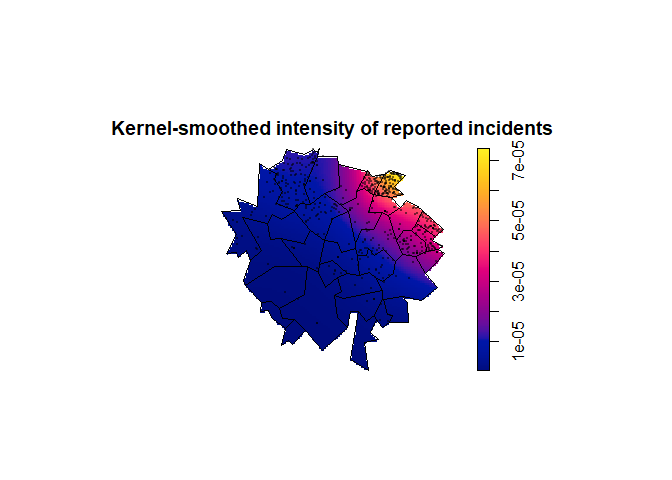
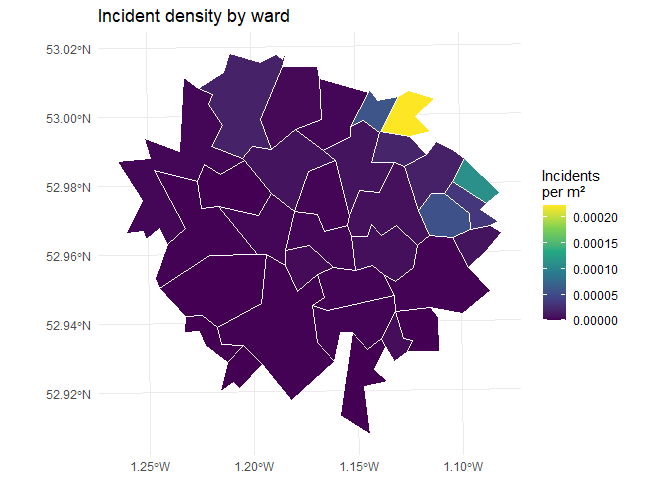
DRAFT 2

diff --git a/coursework_02.md b/coursework_02.md
@@ -77,8 +77,8 @@ incident_counts <-  incidents_joined %>%
 wards_incident <- wards %>% 
   left_join(incident_counts %>% select(ward_id, n_incidents),by = "ward_id") %>%
   mutate(n_incidents = replace_na(n_incidents, 0),
-         area_km2 = as.numeric(st_area(geometry))/1000000,
-         incident_density =  n_incidents / area_km2)
+         area_m2 = as.numeric(st_area(geometry)),
+         incident_density =  n_incidents / area_m2)
 
 #kernel-smoothed intensity for ppp and quadrat
 wards_window <- as.owin(st_union(wards))
@@ -86,13 +86,6 @@ incident_coords = st_coordinates(incidents_sf)
 incident_ppp <-  ppp( x = incident_coords[,1] , y =incident_coords[,2] , window = wards_window)
 
 incident_intensity <-  density.ppp( x = incident_ppp , edge= TRUE)
-incident_quadrat6 <- quadratcount( incident_ppp, nx=6 , ny=6 )
-
-par(mfrow = c(1,2))
-plot(incident_ppp, main = "", pch=16, cex=0.25)
-title("Quadrat counts", line = 1.5)
-plot(incident_quadrat6, add = TRUE)
-plot(st_geometry(wards),add = TRUE,lwd = 0.5)
 
 plot(incident_intensity,main = "")
 title("Kernel intensity", line = 1.5)
@@ -103,31 +96,23 @@ plot(incident_ppp, add = TRUE, pch = 16,cex = 0.25)
 ![](coursework_02_files/figure-commonmark/task-1-code-1.png)
 
 ``` r
+#choropleth map 
+ggplot(wards_incident) +
+  geom_sf(aes(fill = incident_density), colour = "white", linewidth = 0.2) +
+  scale_fill_viridis_c() +
+  labs(title = "Incident density by ward",fill = "Incidents\nper m²") +
+  theme_minimal()
+```
+
+![](coursework_02_files/figure-commonmark/task-1-code-2.png)
+
+``` r
 top_wards <- wards_incident %>% 
   st_drop_geometry() %>% 
   arrange(desc(n_incidents)) %>% 
   select(ward_id,ward_name, n_incidents, incident_density) %>% 
   slice_head(n=5)
 
-top_wards %>%
-  mutate(incident_density = round(incident_density, 1)) %>%
-  kable(
-    col.names = c("Ward ID", "Ward", "Incidents", "Incident density"),
-    caption = "Highest incident wards by coordinate-based ward assignment."
-  )
-```
-
-| Ward ID | Ward        | Incidents | Incident density |
-|:--------|:------------|----------:|-----------------:|
-| W17     | Maple Cross |       337 |            222.9 |
-| W25     | Saffron Lea |       110 |            111.9 |
-| W08     | Market End  |        96 |             17.8 |
-| W11     | Hazel Row   |        95 |             55.6 |
-| W16     | Foxley      |        57 |             59.0 |
-
-Highest incident wards by coordinate-based ward assignment.
-
-``` r
 total_incidents = sum(wards_incident$n_incidents)
 
 top_10_share <- wards_incident %>%
@@ -135,27 +120,13 @@ top_10_share <- wards_incident %>%
   arrange(desc(n_incidents)) %>% 
   slice_head(n =10) %>% 
   summarise( share = (sum(n_incidents)/total_incidents) *100)
-top_10_share
-```
 
-    # A tibble: 1 × 1
-      share
-      <dbl>
-    1  86.4
-
-``` r
 top_5_share <-  wards_incident %>% 
   st_drop_geometry() %>% 
   arrange(desc(n_incidents)) %>% 
   slice_head(n=5) %>% 
   summarise ( share = (sum(n_incidents)/total_incidents)*100)
-top_5_share 
 ```
-
-    # A tibble: 1 × 1
-      share
-      <dbl>
-    1  70.4
 
 I converted the incident coordinates into an sf point layer using the
 same CRS as the ward polygons, then spatially joined each incident to
@@ -165,26 +136,26 @@ that differed from the coordinate-based ward assignment. Subsequent ward
 counts therefore use the spatially assigned ward, so the analysis
 reflects the actual incident locations.
 
-The incident records were treated as point pattern data, since each row
-records an event location. A 6 × 6 quadrat count showed strong spatial
-variation: the largest cell counts were in the north-east/eastern part
-of the city, while several southern and western cells had very low or
-zero counts. This suggests a non-homogeneous pattern rather than an even
-spatial distribution.
+The incident records were first treated as point pattern data, since
+each row records an event location. The kernel-smoothed intensity map
+shows a clear non-uniform pattern, with the highest intensity in the
+north-east/eastern region and much lower intensity across the south-west
+and outer areas.
 
-The kernel-smoothed intensity map confirmed the same pattern, with the
-highest intensity in the north-east/eastern region and much lower
-intensity across the south-west and outer areas. I then aggregated
-incidents to wards using the coordinate-based ward assignment to
-identify the administrative areas contributing most to this pattern.
-Maple Cross had the highest count, with 337 incidents and 222.9
-incidents per km², followed by Saffron Lea with 110 incidents and 111.9
-incidents per km². Market End, Hazel Row and Foxley also had high
-counts, with 96, 95 and 57 incidents respectively.
+I then aggregated incidents to wards to produce a lattice/areal summary
+of the same pattern. The ward choropleth confirms that the highest
+incident densities are concentrated in the same north-east/eastern part
+of the city. Since density was calculated using ward area in square
+metres, the values are small, but the relative pattern is still clear.
+
+Maple Cross had the highest count, with 337 incidents and the highest
+ward density, followed by Saffron Lea with 110 incidents. Market End,
+Hazel Row and Foxley also had high counts, with 96, 95 and 57 incidents
+respectively.
 
 The top five wards accounted for 70.4% of incidents and the top ten for
-86.4%, confirming that incidents are highly concentrated in a small
-number of wards.
+86.4%, confirming that incidents are concentrated in a small number of
+wards rather than evenly distributed across the city.
 
 # Task 2
 
@@ -199,7 +170,7 @@ wards_data = wards_incident %>%
 
 #PCA of profiles 
 
-#not keeping transport acces and listed building shares cuz thye have na values 
+#not keeping transport access and listed building shares beacuse they have NA values 
 PCA_profile_data <- wards_data %>% 
   st_drop_geometry() %>% 
   select(unemployment_rate,
@@ -213,43 +184,13 @@ profile_pca <- prcomp(PCA_profile_data, scale. = TRUE)
 
 var_explained <- profile_pca$sdev^2 / sum(profile_pca$sdev^2)
 
-scree_df <- data.frame(PC  = seq_along(var_explained),Var = var_explained)
-
-scree_plot <- ggplot(scree_df, aes(x = PC, y = Var)) +
-    geom_col(fill = "steelblue") +
-    geom_line(aes(y = cumsum(Var)), color = "red", linewidth = 1) +
-    geom_point(aes(y = cumsum(Var)), color = "red", size = 2) +
-    geom_hline(yintercept = 0.9, linetype = "dashed") +
-    scale_y_continuous(labels = scales::percent_format()) +
-    theme_bw() +
-    labs(
-        x = "Principal Component", y = "Variance Explained",
-        title = "Scree Plot — Ward profile")
-scree_plot
-```
-
-![](coursework_02_files/figure-commonmark/task-2-code-1.png)
-
-``` r
 library(patchwork)
 
 loadings <- data.frame(
     variable = rownames(profile_pca$rotation),
     PC1 = profile_pca$rotation[, 1],
-    PC2 = profile_pca$rotation[, 2]
-)
-loadings
-```
+    PC2 = profile_pca$rotation[, 2])
 
-                                   variable         PC1          PC2
-    unemployment_rate     unemployment_rate  0.49560981 -0.000705084
-    deprivation_score     deprivation_score  0.49276700 -0.016342217
-    rental_share               rental_share  0.48755124  0.045486436
-    population_density   population_density -0.04259719 -0.968350549
-    lighting_coverage     lighting_coverage -0.29435650 -0.122882153
-    distance_police_hub distance_police_hub  0.43056372 -0.211803235
-
-``` r
 pca_score <- data.frame( ward_id = wards_data$ward_id,
                          PC1 = profile_pca$x[,1],
                          PC2 = profile_pca$x[,2])
@@ -259,39 +200,26 @@ wards_data_pca <- wards_data %>%
 pc1_map <- ggplot(wards_data_pca) +
   geom_sf(aes(fill = PC1), colour = "white", linewidth = 0.2) +
   scale_fill_viridis_c() +
-  labs(
-    title = "PC1 score by ward",
-    fill = "PC1 score"
-  ) +
+  labs(fill = "PC1 score") +
   theme_minimal()
 
 pc2_map <- ggplot(wards_data_pca) +
   geom_sf(aes(fill = PC2), colour = "white" ,linewidth = 0.2) +
   scale_fill_viridis_c() +
-  labs(
-    title = "PC2 score by ward",
-    fill = "PC2 score"
-  ) +
+  labs(fill = "PC2 score") +
   theme_minimal()
 
-pc1_map + pc2_map
+(pc1_map + pc2_map) + 
+  plot_annotation(title = "PC1 and PC2 scores by ward", 
+                  theme = theme(plot.title = element_text(hjust = 0.5, face = "bold")))
 ```
 
-![](coursework_02_files/figure-commonmark/task-2-code-2.png)
+![](coursework_02_files/figure-commonmark/task-2-code-1.png)
 
 ``` r
 cor_pc1 <- cor(wards_data_pca$incident_density , wards_data_pca$PC1, use = "complete.obs")
 cor_pc2 <- cor(wards_data_pca$incident_density, wards_data_pca$PC2, use = "complete.obs")
-cor_pc1
 ```
-
-    [1] 0.4197748
-
-``` r
-cor_pc2
-```
-
-    [1] -0.3906488
 
 As a supplementary ward-level analysis, I used PCA to summarise the
 neighbourhood profile variables. I excluded transport_access and
@@ -355,7 +283,7 @@ task3_table <- bind_rows(
 
 task3_table %>%
   mutate(
-    incident_density = round(incident_density, 1),
+    incident_density = incident_density,
     profile_score = round(profile_score, 2),
     PC1 = round(PC1, 2),
     PC2 = round(PC2, 2),
@@ -366,16 +294,26 @@ task3_table %>%
   ) %>%
   kable(
     col.names = c(
-      "Group", "Ward", "Incidents", "Incidents per km²", "Profile score",
+      "Group", "Ward", "Incidents", "Incidents per m²", "Profile score",
       "PC1", "PC2", "Deprivation", "Unemployment", "Lighting", "Police distance"
     ),
     caption = "Priority and comparison wards based on incident burden and PCA neighbourhood-profile evidence."
   )
 ```
 
+| Group | Ward | Incidents | Incidents per m² | Profile score | PC1 | PC2 | Deprivation | Unemployment | Lighting | Police distance |
+|:---|:---|---:|---:|---:|---:|---:|---:|---:|---:|---:|
+| Priority | Maple Cross | 337 | 0.0002229 | 3.90 | 3.08 | -0.81 | 83.5 | 15.8 | 58.1 | 5 |
+| Priority | Saffron Lea | 110 | 0.0001119 | 2.56 | 1.21 | -1.35 | 61.1 | 12.1 | 65.4 | 4 |
+| Comparison | Bracken Vale | 0 | 0.0000000 | -3.15 | -3.54 | -0.39 | 16.0 | 3.3 | 97.1 | 0 |
+| Comparison | Canal Side | 0 | 0.0000000 | -2.20 | -2.94 | -0.73 | 23.2 | 3.6 | 96.4 | 1 |
+
+Priority and comparison wards based on incident burden and PCA
+neighbourhood-profile evidence.
+
 The clearest priority areas are Maple Cross and Saffron Lea. Maple Cross
-had 337 incidents and 222.9 incidents per km², while Saffron Lea had 110
-incidents and 111.9 incidents per km². Both also had positive PCA
+had 337 incidents and 0.0002229 incidents per m², while Saffron Lea had
+110 incidents and 0.0001119 incidents per m². Both also had positive PCA
 profile scores, while the comparison wards Bracken Vale and Canal Side
 had no incidents and negative profile scores.
 
@@ -405,4 +343,4 @@ investigation and intervention, not causal claims.
 
 Add references only if needed.
 
-    **Prose Word Count:** 844 words (156 words under the 1000-word limit)
+    **Prose Word Count:** 836 words (164 words under the 1000-word limit)
